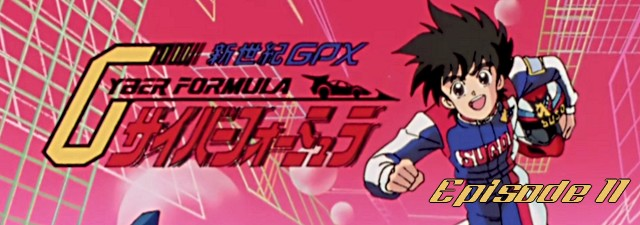
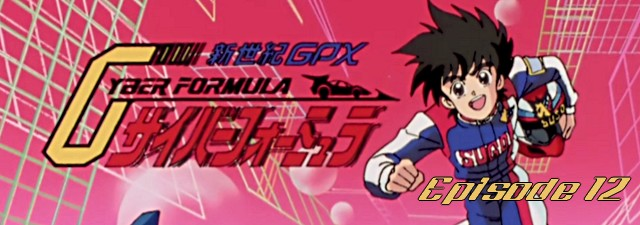
new release

Changed region(s): [[0.6562, 0.7778, 1.0, 0.9333]]

diff --git a/2015-08-17.html b/2015-08-17.html
@@ -1,0 +1,102 @@
+<!DOCTYPE html>
+<html lang="fr-FR">
+	<head>
+		<title>Future GPX Cyber Formula BD 12 vostfr | Nobluesky Fansub</title>
+		<meta charset="utf-8" />
+		<link rel="Shortcut Icon" type="image/x-icon" href="favicon.ico" />
+		<link href="fonts/fonts.css" rel="stylesheet" type="text/css" />
+		<link href="style.css" rel="stylesheet" type="text/css" media="screen" />
+		<link rel="stylesheet" href="menu.css" type="text/css" />
+		<script src="jquery.js" type="text/javascript"></script>
+		<script src="background-script.js" type="text/javascript"></script>
+	</head>
+<body>
+<div class="banner">
+	<a title="Nobluesky Fansub" href="index.html"> <img class="banner" alt="Nobluesky Fansub" title="Nobluesky Fansub" src="images/banner.png"/> </a>
+</div>
+<!-- end banner -->
+<div id="menu-wrapper">
+	<div id="menu">
+		<script type="text/javascript">
+		$( '#menu' ).load( 'menu.html' );
+		</script>
+		<noscript>Activez javascript pour voir le menu!</noscript>
+	</div>
+</div>
+<!-- end #menu -->
+<div id="page-wrapper">
+<div id="sidebar-wrapper">
+	<div id="sidebar">
+		<script type="text/javascript">
+		$( '#sidebar' ).load( 'sidebar.html' );
+		</script>
+	</div>
+	<!-- end #sidebar -->
+</div>
+	<div id="article">
+		<div id="content">
+			<div class="post">
+				<h1 class="title">Future GPX Cyber Formula BD 12 vostfr</h1>
+				<p class="meta"><span class="date">17 Août 2015</span><span class="posted">Posté par <a href="about.html#nobluesky">Nobluesky</a></span></p>
+				<div style="clear: both;">&nbsp;</div>
+				<div class="entry">
+					<img class="post-images" src="images/2015/news13.jpg" alt="" />
+					<p>Bonjour!</p>
+					<p>Malgré quelques soucis pour l'envoi de cet épisode, le voici enfin en ligne, après plus de cinq jours à tenter de l'uploader^^</p>
+					<p>Hayato a besoin de réfléchir un peu après son échec à la première course, et va faire une rencontre inattendue.</p>
+					<p>Je vous souhaite un bon épisode, et à la revoyure!</p>
+					<p>Continuez à regarder des animés aussi souvent que possible, même si c'est ailleurs qu'ici!</p>
+					<h3>Téléchargements et streaming</h3>
+					<p class="links dl"><a href="http://jheberg.net/captcha/fgpxcf-12-vostfr-bd-9/" class="button-dl">Jheberg</a></p>&nbsp; | &nbsp;
+					<p class="links dl"><a href="http://rutube.ru/video/81a2ae2c6066dfce55ceecb206018699/" class="button-dl">Rutube</a></p>&nbsp; | &nbsp;
+					<p class="links dl"><a href="https://mega.nz/#!HZtCRIQZ!OQ1rQlfbUhs6Tk426zxX_hY-2-IrjE_cnBYpeikr5gw" class="button-dl">Mega</a></p>
+					<h3>Commentaires</h3>
+					<div id="disqus_thread"></div>
+					<script type="text/javascript">
+						/* * * CONFIGURATION VARIABLES: EDIT BEFORE PASTING INTO YOUR WEBPAGE * * */
+						var disqus_shortname = 'noblueskyfansub'; // required: replace example with your forum shortname
+
+						/* * * DON'T EDIT BELOW THIS LINE * * */
+						(function() {
+							var dsq = document.createElement('script'); dsq.type = 'text/javascript'; dsq.async = true;
+							dsq.src = '//' + disqus_shortname + '.disqus.com/embed.js';
+							(document.getElementsByTagName('head')[0] || document.getElementsByTagName('body')[0]).appendChild(dsq);
+						})();
+					</script>
+					<noscript>Activez javascript pour voir les commentaires.</noscript>
+					<a href="http://disqus.com" class="dsq-brlink">commentaires propulsés par <span class="logo-disqus">Disqus</span></a>
+				</div>
+			</div>
+			<div style="clear: both;">&nbsp;</div>
+		</div>
+		<!-- end #content -->
+		<div style="clear: both;">&nbsp;</div>
+	</div>
+</div>
+<!-- end #page -->
+<script type="text/javascript">
+$(window).scroll(function() {
+    if ($(this).scrollTop() < 1000) {
+        $("#footer").hide();
+    }
+    else {
+        $("#footer").show();
+    }
+});
+$(window).scroll(function() {
+  if ($(this).scrollTop() < 1000) {
+    $("footer").slideUp();
+      }
+  else {
+    $("footer").slideDown();
+      }
+});		
+</script>
+<div id="footer">
+	<script type="text/javascript">
+	$( '#footer' ).load( 'footer.html' );
+	</script>
+</div>
+<!-- end #footer -->
+</body>
+</html>

diff --git a/page2.html b/page2.html
@@ -31,7 +31,7 @@
 	<div class="slider-wrapper theme-default">
 		<div class="ribbon"></div>
 		<div id="slider" class="nivoSlider">
-			<a href="2015-06-27.html"><img src="images/img01.jpg" alt="" /></a>
+			<a href="2015-08-17.html"><img src="images/img01.jpg" alt="" /></a>
 		</div>
 	</div>
 <script type="text/javascript">
@@ -50,6 +50,19 @@
 </div>
 	<div id="feed">
 		<div id="content">
+			<div class="post">
+				<h1 class="title"><a href="2015-05-25.html">Future GPX Cyber Formula BD 06 vostfr</a></h1>
+				<p class="meta"><span class="date">25 Mai 2015</span><span class="posted">Posté par <a href="about.html#nobluesky">Nobluesky</a></span></p>
+				<p><a href="http://nobluesub.com/2015-05-25.html#disqus_thread">Commentaires</a></p>
+				<div style="clear: both;">&nbsp;</div>
+				<div class="entry">
+					<img class="post-images" src="images/2015/news8.jpg" alt="" />
+					<p>Bonsoir bonsoir!</p>
+					<p>Ah bon il est encore là Nobluesky? Il avait dit trois mois pourtant!</p>
+					<p>Trève de plaisanterie, voici votre épisode, pour vous consoler d'attendre le n°10 depuis des lustres...</p>
+					<p class="links"><a href="2015-05-25.html" class="button">Lire la suite</a></p>
+				</div>
+			</div>
 			<div class="post">
 				<h1 class="title"><a href="2015-05-19.html">Des news! Enfin!</a></h1>
 				<p class="meta"><span class="date">19 Mai 2015</span><span class="posted">Posté par <a href="about.html#nobluesky">Nobluesky</a></span></p>
@@ -104,20 +117,6 @@
 					<p>Alors pas d'épisode cette semaine à cause de l'adaptation au nouveau format, et de la révision des sous-titres bien sûr. Les épisode déjà terminés seront ajoutés en 720p, et je poursuivrai ensuite la série avec cette superbe qualité!</p>
 					<p>Pour les anciennes sorties...</p>
 					<p class="links"><a href="2015-01-17.html" class="button">Lire la suite</a></p>
-				</div>
-			</div>
-			<div class="post">
-				<h1 class="title"><a href="2015-01-12.html">Yoru no Yatterman 01 vostfr</a></h1>
-				<p class="meta"><span class="date">12 Janvier 2015</span><span class="posted">Posté par <a href="about.html#nobluesky">Nobluesky</a></span></p>
-				<p><a href="http://nobluesub.com/2015-01-12.html#disqus_thread">Commentaires</a></p>
-				<div style="clear: both;">&nbsp;</div>
-				<div class="entry">
-					<img class="post-images" src="images/2015/news3.jpg" alt="" />
-					<p>Bonsoir à tous!</p>
-					<p>Voici le premier épisode de Yoru no Yatterman (Yatterman de la Nuit).</p>
-					<p>Cette série a hérité d'éléments d'histoire d'un animé des années 70, mais peut se regarder indépendamment car les évènements se déroulent bien après l'histoire originale, que je ne connais pas...</p>
-					<p style="color:red;" >Edit : Et une V2, une!</p>
-					<p class="links"><a href="2015-01-12.html" class="button">Lire la suite</a></p>
 				</div>
 			</div>
 			<div style="clear: both;">&nbsp;</div>

diff --git a/index.html b/index.html
@@ -35,7 +35,7 @@
 	<div class="slider-wrapper theme-default">
 		<div class="ribbon"></div>
 		<div id="slider" class="nivoSlider">
-			<a href="2015-06-27.html"><img src="images/img01.jpg" alt="" /></a>
+			<a href="2015-08-17.html"><img src="images/img01.jpg" alt="" /></a>
 		</div>
 	</div>
 <script type="text/javascript">
@@ -59,7 +59,20 @@
 				<h1 class="title">Annonces</h1>
 				<div style="clear: both;">&nbsp;</div>
 				<div class="entry">
-					<p>En raison d'une connexion instable, les uploads sont actuellement suspendus.</p>
+					<p>Bienvenue sur le site de la Nobluesky Fansub!</p>
+				</div>
+			</div>
+			<div class="post">
+				<h1 class="title"><a href="2015-08-17.html">Future GPX Cyber Formula BD 12 vostfr</a></h1>
+				<p class="meta"><span class="date">17 août 2015</span><span class="posted">Posté par <a href="about.html#nobluesky">Nobluesky</a></span></p>
+				<p><a href="http://nobluesub.com/2015-08-17.html#disqus_thread">Commentaires</a></p>
+				<div style="clear: both;">&nbsp;</div>
+				<div class="entry">
+					<img class="post-images" src="images/2015/news13.jpg" alt="" />
+					<p>Bonjour!</p>
+					<p>Malgré quelques soucis pour l'envoi de cet épisode, le voici enfin en ligne, après plus de cinq jours à tenter de l'uploader^^</p>
+					<p>Hayato a besoin de réfléchir un peu après son échec...</p>
+					<p class="links"><a href="2015-08-17.html" class="button">Lire la suite</a></p>
 				</div>
 			</div>
 			<div class="post">
@@ -110,19 +123,6 @@
 					<p>Poursuivant ma course effrénée aux followers, me voici pour un nouvel épisode bluray!</p>
 					<p>A la prochaine^^</p>
 					<p class="links"><a href="2015-05-30.html" class="button">Lire la suite</a></p>
-				</div>
-			</div>
-			<div class="post">
-				<h1 class="title"><a href="2015-05-25.html">Future GPX Cyber Formula BD 06 vostfr</a></h1>
-				<p class="meta"><span class="date">25 Mai 2015</span><span class="posted">Posté par <a href="about.html#nobluesky">Nobluesky</a></span></p>
-				<p><a href="http://nobluesub.com/2015-05-25.html#disqus_thread">Commentaires</a></p>
-				<div style="clear: both;">&nbsp;</div>
-				<div class="entry">
-					<img class="post-images" src="images/2015/news8.jpg" alt="" />
-					<p>Bonsoir bonsoir!</p>
-					<p>Ah bon il est encore là Nobluesky? Il avait dit trois mois pourtant!</p>
-					<p>Trève de plaisanterie, voici votre épisode, pour vous consoler d'attendre le n°10 depuis des lustres...</p>
-					<p class="links"><a href="2015-05-25.html" class="button">Lire la suite</a></p>
 				</div>
 			</div>
 			<div style="clear: both;">&nbsp;</div>

diff --git a/stream/futuregpxcf12.html b/stream/futuregpxcf12.html
@@ -1,0 +1,33 @@
+<!DOCTYPE html>
+<html lang="fr">
+<head>
+	<title>Streaming Nobluesub | Lecture en cours</title>
+	<link rel="Shortcut Icon" type="image/x-icon" href="favicon.ico" />
+	<meta charset="UTF-8" />
+	<link rel="stylesheet" href="style.css"/>
+	<script src="jquery.js" type="text/javascript"></script>
+	<script type="text/javascript" src="flowplayer/flowplayer.min.js"></script>
+	<link rel="stylesheet" href="flowplayer/skin/minimalist.css">
+</head>
+
+<body>
+<div id="feed">
+	<a title="Nobluesky stream" href="index.html"> <img id="banner" alt="Nobluesky Stream" title="Nobluesky Stream | Accueil" src="images/banner.png"/> </a>
+		<p><a href="futuregpxcf.html">Retour à la liste des épisodes</a></p>
+			<video id="player" controls alt="video">
+				<source src="http://stream.nobluesub.com/share/xGvheK_ixzfkntRh/12.mp4" type="video/mp4">
+					<p>Désolé, votre navigateur est ancien et/ou ne supporte pas html5.</p>
+				</object>
+			</video>
+<p id="copy">Design par Nobluesky</p>
+</div>
+<!-- end feed -->
+<div id="sidebar">
+<script type="text/javascript">
+		$( '#sidebar' ).load( 'sidebar.html' );
+</script>
+<noscript>Activez javascript pour voir tout le contenu!</noscript>
+</div>
+<!-- end sidebar -->
+</body>
+</html>

diff --git a/future-gpx-cyber-formula.html b/future-gpx-cyber-formula.html
@@ -103,7 +103,12 @@
 					<p class="links dl"><a href="http://jheberg.net/captcha/fgpxcf-11-vostfr-bd/" class="button-dl">Jheberg</a></p>&nbsp; | &nbsp;
 					<p class="links dl"><a href="http://rutube.ru/video/a7d26c64a96750a6d13e50f050f07294/" class="button-dl">Rutube</a></p>&nbsp; | &nbsp;
 					<p class="links dl"><a href="https://mega.co.nz/#!rFVmzLJI!6yPrGRq-SwtXteZFdJ8PDglD5F5AqiwoJfK-e9M_Qwc" class="button-dl">Mega</a></p>
-
+					<br>
+					Episode 12 : 
+					<p class="links dl"><a href="http://jheberg.net/captcha/fgpxcf-12-vostfr-bd-9/" class="button-dl">Jheberg</a></p>&nbsp; | &nbsp;
+					<p class="links dl"><a href="http://rutube.ru/video/81a2ae2c6066dfce55ceecb206018699/" class="button-dl">Rutube</a></p>&nbsp; | &nbsp;
+					<p class="links dl"><a href="https://mega.nz/#!HZtCRIQZ!OQ1rQlfbUhs6Tk426zxX_hY-2-IrjE_cnBYpeikr5gw" class="button-dl">Mega</a></p>
+					
 					<h4>Version SD (640x480) non remasterisée (abandonnée)</h4>
 					Episode 01 : 
 					<p class="links dl"><a href="http://jheberg.net/captcha/nobluesub-future-gpx-cyber-formula-01/" class="button-dl">Jheberg</a></p>&nbsp; | &nbsp;

diff --git a/archives.html b/archives.html
@@ -45,6 +45,7 @@
 					<div>
 					 <!-- here comes spoiler content --> 
 					<div style="clear: both;">&nbsp;</div>
+					<p><a href="2015-01-12.html" target="_blank" >Yoru no Yatterman 01 vostfr</a></p>
 					<p><a href="2015-01-09.html" target="_blank" >Future GPX Cyber Formula 09 vostfr</a></p>
 					<p><a href="2015-01-04.html" target="_blank" >Future GPX Cyber Formula 08 vostfr</a></p>
 					 <!-- end spoiler content --> 

diff --git a/stream/futuregpxcf.html b/stream/futuregpxcf.html
@@ -23,6 +23,7 @@
 	<p><a href="futuregpxcf09.html">Episode 09</a></p>
 	<p><a href="futuregpxcf10.html">Episode 10</a></p>
 	<p><a href="futuregpxcf11.html">Episode 11</a></p>
+	<p><a href="futuregpxcf12.html">Episode 12</a></p>
 <p id="copy">Design par Nobluesky</p>
 </div>
 <!-- end feed -->

diff --git a/style.css b/style.css
@@ -189,7 +189,7 @@ a:hover {
 	border: 3px solid #ffffff;
 	background: #f1ede4;
 	border-radius: 4px;
-	/*display: none;*/
+	display: none;
 }
 
 #annonce h1 {
